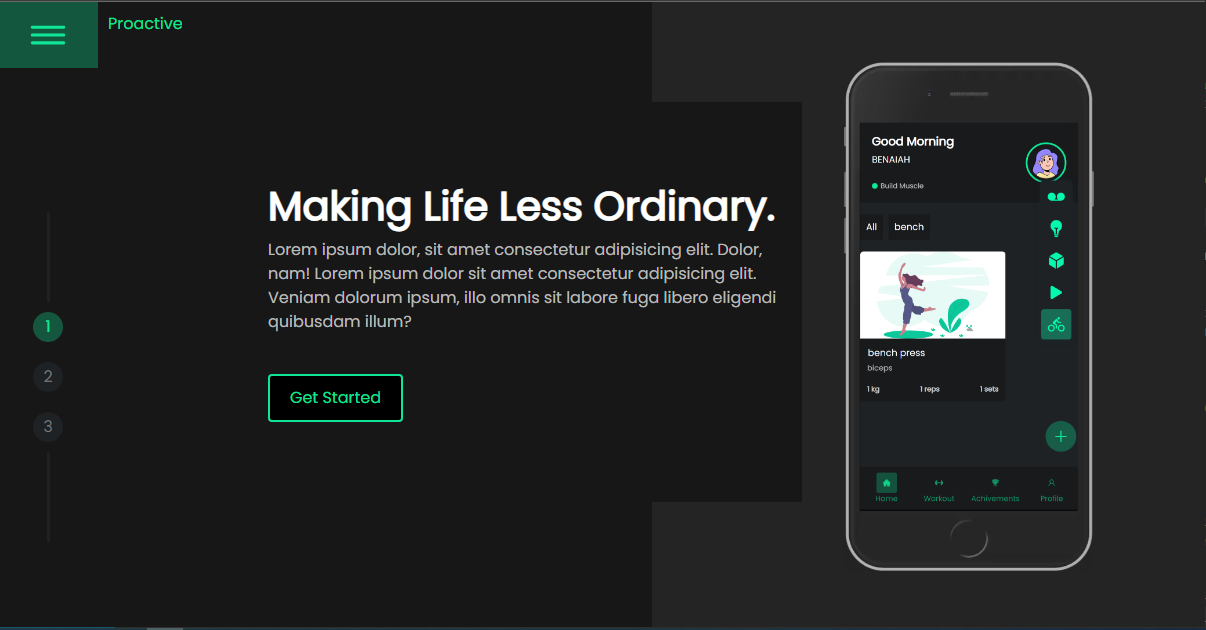
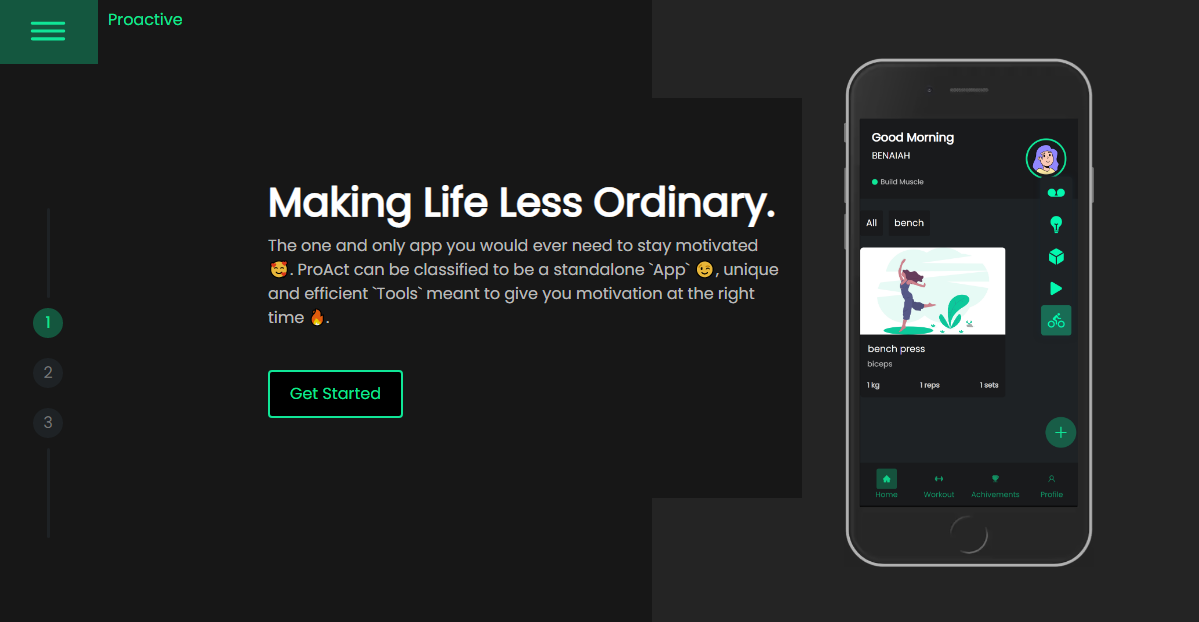
updated major changes

diff --git a/src/pages/home/Home.js b/src/pages/home/Home.js
@@ -26,7 +26,8 @@ function Home() {
                         <div className="con">
                             <h1>Making Life Less Ordinary.</h1>
                             <p>
-                                Lorem ipsum dolor, sit amet consectetur adipisicing elit. Dolor, nam! Lorem ipsum dolor sit amet consectetur adipisicing elit. Veniam dolorum ipsum, illo omnis sit labore fuga libero eligendi quibusdam illum?
+
+                                The one and only app you would ever need to stay motivated 🥰. ProAct can be classified to be a standalone `App` 😉, unique and efficient `Tools` meant to give you motivation at the right time 🔥.
                             </p>
                             <br />
                             <Link to="/dashboard">
